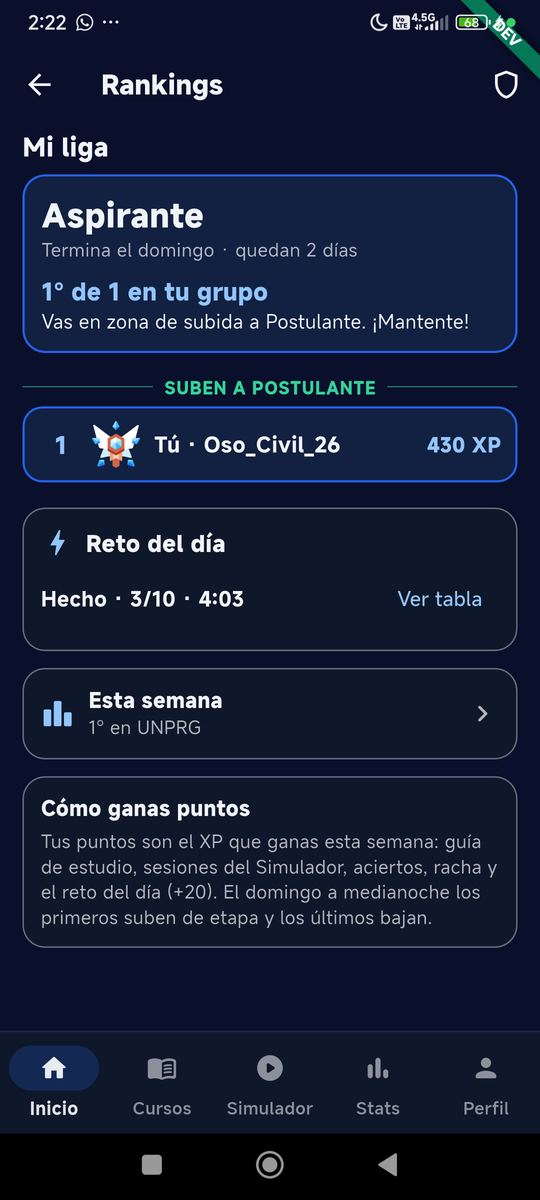
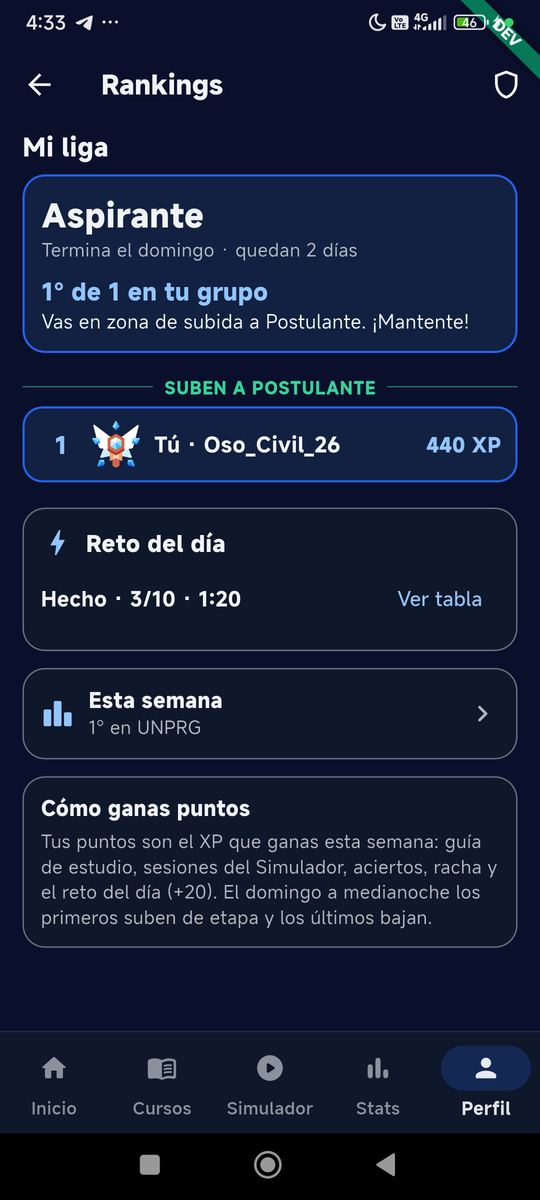
docs(guias): capturas del reto del día corregido

diff --git a/docs/guias/guia_app.html b/docs/guias/guia_app.html
@@ -740,7 +740,10 @@ flowchart LR
   </div>
 </div>
 
-<div class="screen" id="xp-reto">
+<div class="screen two" id="xp-reto">
+  <figure><img src="img/rk-reto-simulador.jpg" alt="Reto en el Simulador"><figcaption>Tarjeta en el Inicio del Simulador.</figcaption></figure>
+  <figure><img src="img/rk-reto-intro.jpg" alt="Intro del reto"><figcaption>Intro con las reglas del reto.</figcaption></figure>
+  <figure><img src="img/rk-reto-resultado.jpg" alt="Resultado del reto"><figcaption>Resultado: sin respuestas hasta mañana.</figcaption></figure>
   <figure><img src="img/rk-reto-tabla.jpg" alt="Tabla del reto"><figcaption>Tabla del día: UNPRG / Mi carrera.</figcaption></figure>
   <div class="body">
 <h3>Reto del día</h3>

diff --git a/PROGRESO.md b/PROGRESO.md
@@ -8,6 +8,7 @@ _Última actualización: 2026-10-15_
 - `desarrollo` con admin #53 (repaso relámpago, 2026-10-14). Antes: #52, #51, #50. Functions en Node.js 22; las 7 callables e índices TTL desplegados en TEST; reglas de Firestore desplegadas en TEST.
 
 ## Hecho (reciente)
+- **Correcciones de la fase 3 verificadas en el teléfono (2026-10-16):** intro del reto con sus reglas; resultado del reto solo con «Volver al Simulador» y «Ver la tabla de hoy» (sin revisión, errores ni por curso); tarjeta «Hecho · 3/10 · 1:20» en el Simulador; Rankings marca «Perfil». Guía v9 con capturas del reto. Fase 3 cerrada.
 - **Fase 3 probada en el teléfono (2026-10-16):** aviso «Te asignamos Oso_Civil_26», Perfil → «Rankings · Aspirante», Rankings sin asiento → reto del día (preguntas del examen UNPRG 2025 I, 3/10, +37 XP con «Reto del día +20») → asiento creado «1° de 1 en tu grupo · zona de subida», tabla del reto UNPRG / «Mi carrera» («Aún hay pocos»), «Esta semana» 1° de 2, «Ocultarme» → «Tú · Postulante oculto». **Corregido tras la prueba:** el resultado del reto ese día ya no muestra «Revisar», «Practicar mis errores», «Por curso y tema» ni el tema más débil (revelaban respuestas) y el servidor rechaza practicar esos errores (`mistakes_unavailable`, desplegado); la intro del reto muestra sus reglas; la barra inferior marca «Perfil» en Rankings. Pendiente: ver en el teléfono el resultado corregido (se desconectó; el intento de hoy de la cuenta de prueba quedó borrado en TEST para rejugarlo). Guía v8 con capturas.
 - **XP fase 3: nombre de usuario, liga semanal y reto del día (2026-10-16), desplegado en TEST; reemplaza al top 100 de la fase 2.** Contrato `docs/rankings_contract.md`. Config `{config}/rankings` (interruptor general apagado de fábrica; al encender desde el admin la liga empieza el lunes siguiente). **Nombre de usuario** para todos: paso 3 de 4 del onboarding (sugerido «Animal_Carrera_NN», «Otro al azar», «Lo elijo después»), «Tu nombre de usuario» en el Perfil con «Ocultarme de los rankings» («Postulante oculto»), aviso único para cuentas existentes; el servidor genera uno si falta (`npm run rankings:aliases`, aplicado en TEST: 4 cuentas). **Liga**: etapas Aspirante → Postulante → Finalista → Ingresante, grupos de 30 por orden de llegada al primer XP de la semana, suben/bajan 15 % (nadie baja en grupos < 5), cierre automático `closeLeagueWeek` lunes 00:10 Lima (Cloud Scheduler activado por el despliegue), aviso del resultado una vez; «Esta semana» por universidad y carrera. **Reto del día**: 10 preguntas iguales por universidad (hasta 6 de sus exámenes pasados, ≥1 si hay), 15 min, un intento, respuestas al día siguiente, tablas universidad / «Mi carrera», XP de sesión + bono 20. Admin: «Rankings» (todas las reglas + alumnos activos) y «Nombres de usuario y reto de hoy» (retirar nombre, ver ocultos, cambiar pregunta del reto); revertir XP descuenta el XP de la semana. **En TEST los rankings quedaron ENCENDIDOS con startWeek 2026-10-12 para probar.** Pruebas: functions 63 + emuladores 39, admin 107, app 414. **Pendiente:** probar en el teléfono (se desconectó) y capturas para la Guía. Guía v7 y Arquitectura v8.
 - **Pendientes antes de Play Console (2026-10-15):** (1) «Hoy te toca» sin duplicados: el servidor guarda `examRequestKeys/open_plan_{día}` y, mientras esa sesión siga abierta, la devuelve aunque llegue otro `requestId` (desplegado en TEST; probado en el teléfono: «Otra sesión» abrió el mismo examen con «Tiempo restante»). (2) Retomar el Simulador: el teléfono recuerda el examen al crearlo (`findLatestSimulator` en el almacén local) y el Inicio del Simulador muestra «Tienes un examen sin terminar · Retomar / Descartar»; botón «Continuar examen» en un examen ya empezado (probado: cerrar la app a la fuerza y retomar). (3) App Check activado en la app (`lib/config/app_check_bootstrap.dart`: Play Integrity solo en production release, depuración en el resto; `APP_CHECK_DEBUG_TOKEN` opcional). **Falta en Firebase:** activar la API «Firebase App Check API» (está apagada), registrar apps y tokens y luego exigirlo; pasos en `iya-app/docs/app_check.md`. (4) Un solo % del curso: `CourseProgressSummary.progressFor` (partes; 100 % con todos los subtemas) en Inicio, Cursos, detalle del curso, Temario y Mis logros. Pruebas: functions emuladores 36, app 409. Guía v6 y Arquitectura v7.
